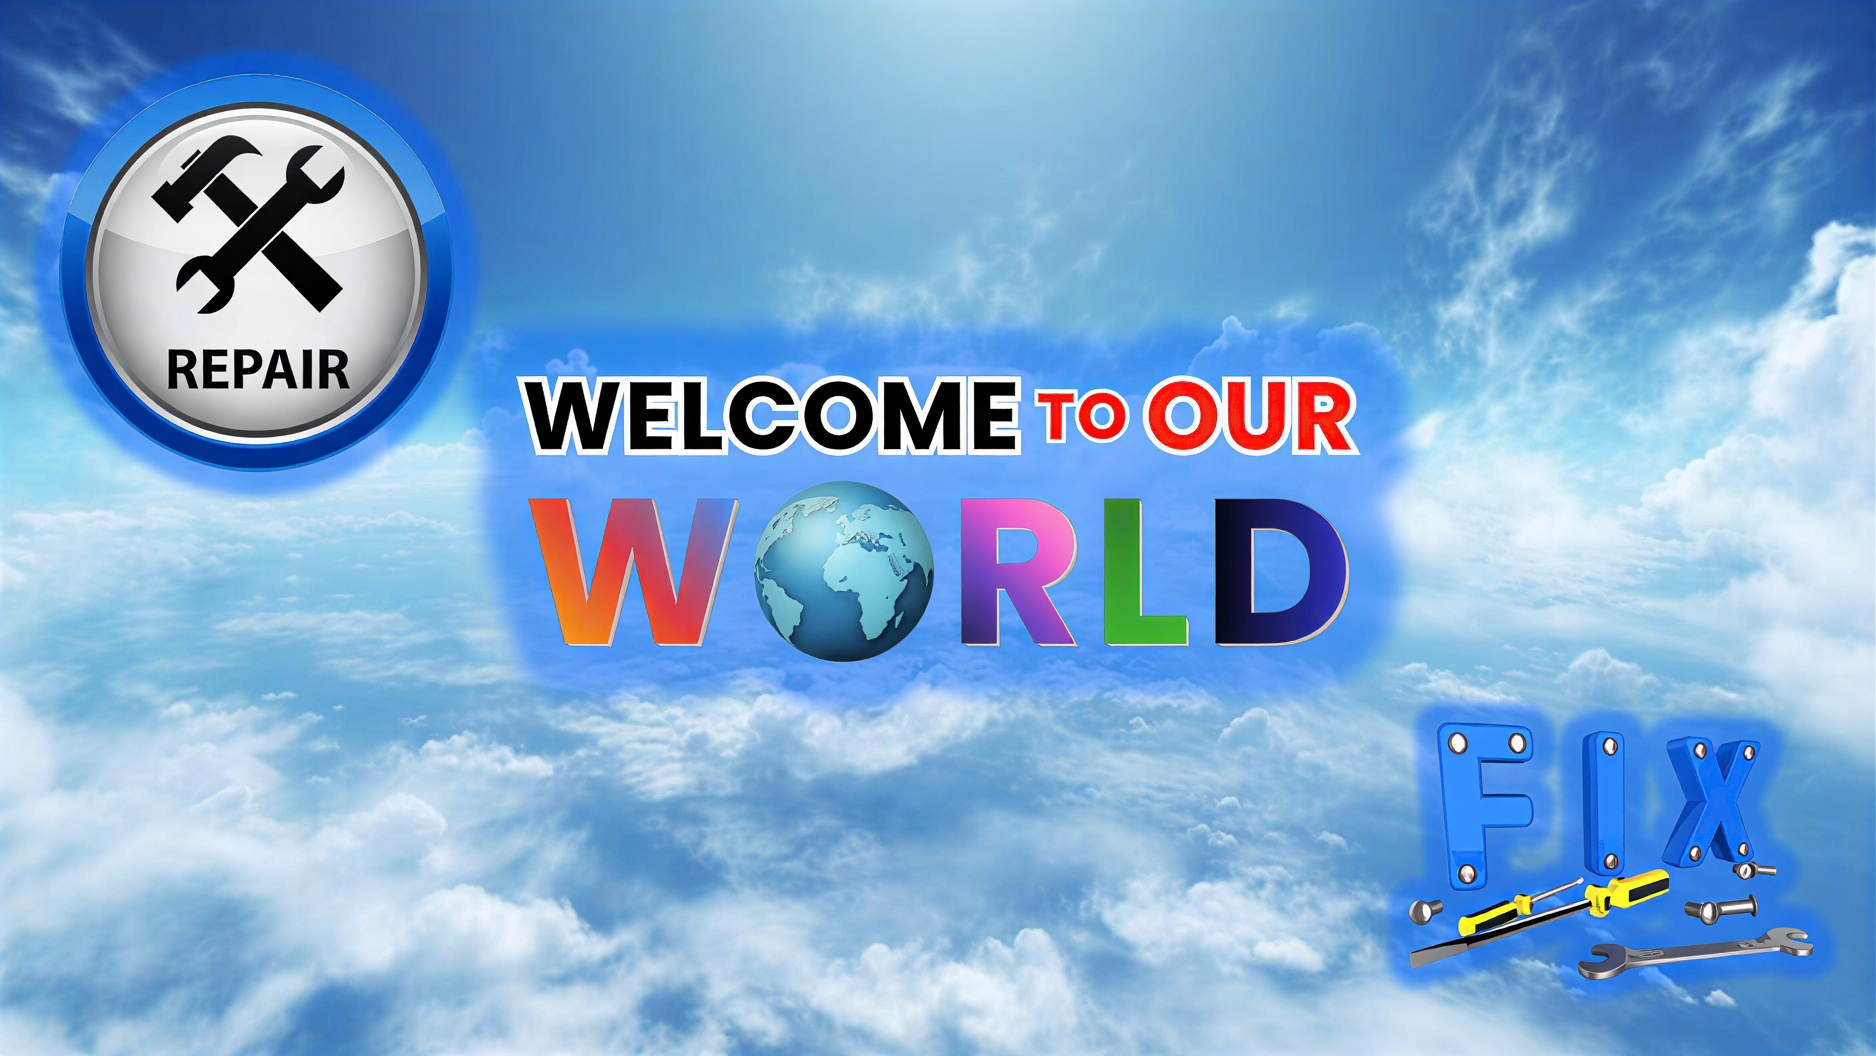
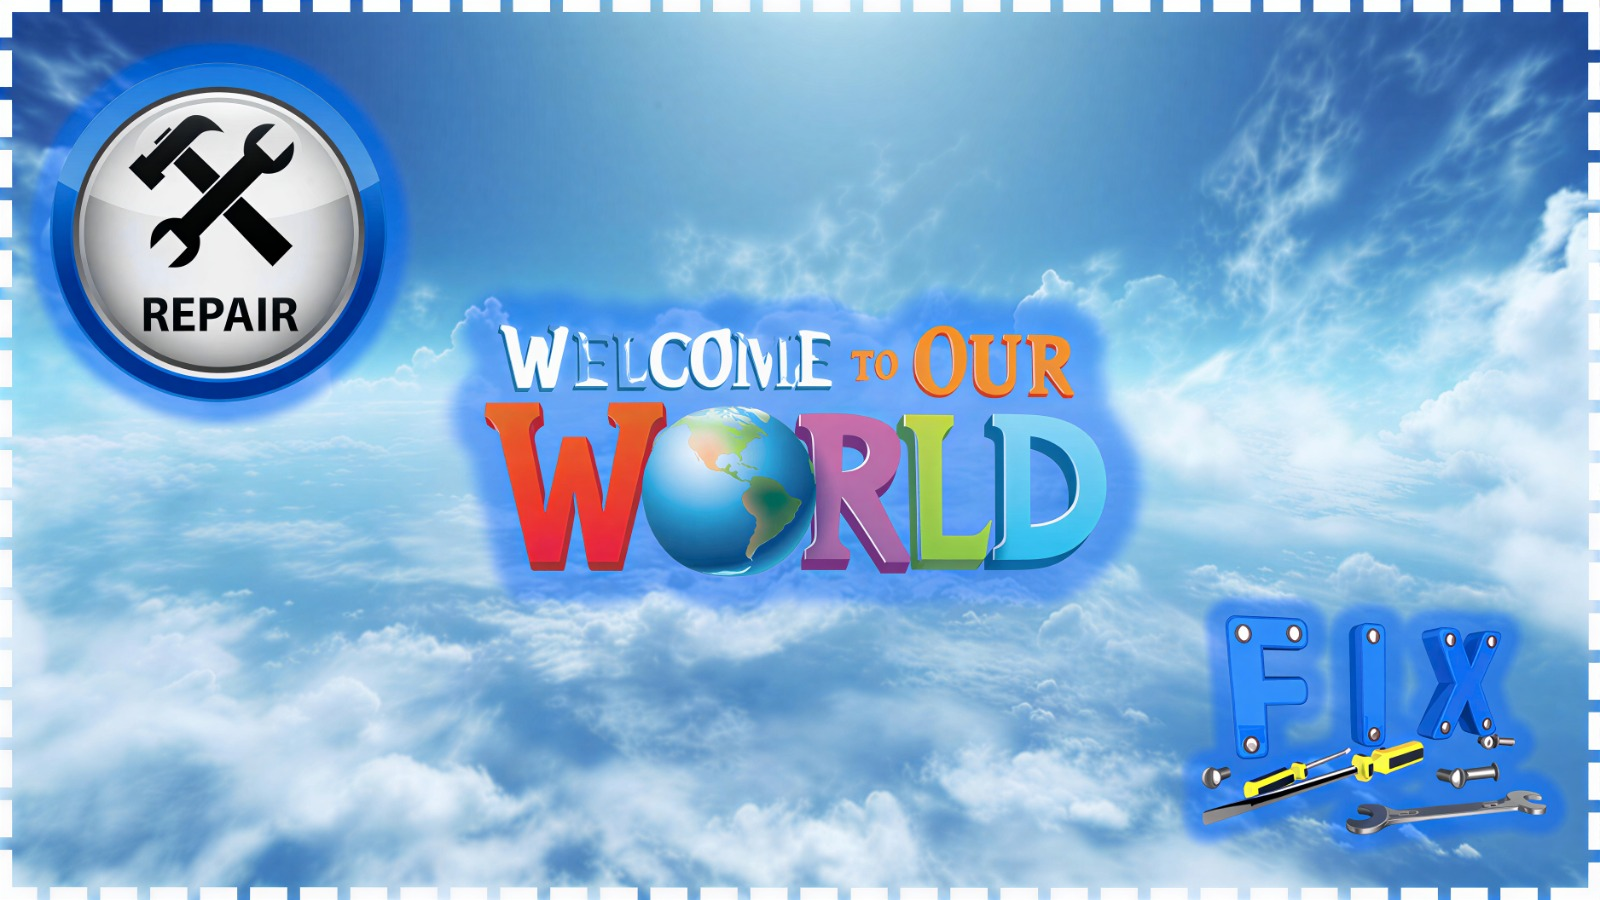
add

diff --git a/src/globalComponents/headerComponents/navbar/navRightLayout/index.jsx b/src/globalComponents/headerComponents/navbar/navRightLayout/index.jsx
@@ -12,7 +12,7 @@ const NavRightLayout = () => {
         </div>
         <div>|</div>
         <div className="font-poppins cursor-pointer hover:text-orange01 transition-colors duration-300">
-          WELCOME TO OUR WORLD
+          <Link to="/weclome-to-our-world">WELCOME TO OUR WORLD</Link>
         </div>
         <div>|</div>
         <div className="font-poppins cursor-pointer hover:text-orange01 transition-colors duration-300">
@@ -32,62 +32,9 @@ const NavRightLayout = () => {
         </div>
         <div>|</div>
         <div className="font-poppins cursor-pointer hover:text-orange01 transition-colors duration-300">
-          <Link to="/get_in_touch">GET IN TOUCH</Link>
+          <Link to="/get-in-touch">GET IN TOUCH</Link>
         </div>
       </div>
-      {/* <div className="flex items-center justify-between gap-x-1  lg:gap-x-2 xl:gap-x-2 font-poppins text-center">
-        <div className="cursor-pointer hover:text-orange01 transition-colors duration-300 text-[10px] md:text-[12px] lg:text-[15px] xl:text-[18px] 2xl:text-[20px]">
-          <Link to="/">START</Link>
-        </div>
-
-        <div className="text-[10px] md:text-[12px] lg:text-[15px] xl:text-[18px] 2xl:text-[20px]">
-          |
-        </div>
-
-        <div className="cursor-pointer hover:text-orange01 transition-colors duration-300 text-[10px] md:text-[12px] lg:text-[15px] xl:text-[18px] 2xl:text-[20px]">
-          WELCOME TO OUR WORLD
-        </div>
-
-        <div className="text-[10px] md:text-[12px] lg:text-[15px] xl:text-[18px] 2xl:text-[20px]">
-          |
-        </div>
-
-        <div className="cursor-pointer hover:text-orange01 transition-colors duration-300 text-[10px] md:text-[12px] lg:text-[15px] xl:text-[18px] 2xl:text-[20px]">
-          OUR EXPERTISE
-        </div>
-
-        <div className="text-[10px] md:text-[12px] lg:text-[15px] xl:text-[18px] 2xl:text-[20px]">
-          |
-        </div>
-
-        <div className="text-[10px] md:text-[12px] lg:text-[15px] xl:text-[18px] 2xl:text-[20px]">
-          <Category />
-        </div>
-
-        <div className="text-[10px] md:text-[12px] lg:text-[15px] xl:text-[18px] 2xl:text-[20px]">
-          |
-        </div>
-
-        <div className="cursor-pointer hover:text-orange01 transition-colors duration-300 text-[10px] md:text-[12px] lg:text-[15px] xl:text-[18px] 2xl:text-[20px]">
-          CONSULTING SERVICES
-        </div>
-
-        <div className="text-[10px] md:text-[12px] lg:text-[15px] xl:text-[18px] 2xl:text-[20px]">
-          |
-        </div>
-
-        <div className="cursor-pointer hover:text-orange01 transition-colors duration-300 text-[10px] md:text-[12px] lg:text-[15px] xl:text-[18px] 2xl:text-[20px]">
-          THE RESULTS
-        </div>
-
-        <div className="text-[10px] md:text-[12px] lg:text-[15px] xl:text-[18px] 2xl:text-[20px]">
-          |
-        </div>
-
-        <div className="cursor-pointer hover:text-orange01 transition-colors duration-300 text-[10px] md:text-[12px] lg:text-[15px] xl:text-[18px] 2xl:text-[20px]">
-          <Link to="/get_in_touch">GET IN TOUCH</Link>
-        </div>
-      </div> */}
     </>
   );
 };

diff --git a/src/pages/welcomeToOurWorld/theBlueprint/index.jsx b/src/pages/welcomeToOurWorld/theBlueprint/index.jsx
@@ -1,0 +1,49 @@
+import React from "react";
+import theBlueprint from "../../../assets/images/theBlueprint.jpeg";
+import Container from "../../../globalComponents/Container";
+
+const TheBluePrint = () => {
+  return (
+    <>
+      <Container>
+        <div className="mb-10">
+          <h2 className="text-6xl font-semibold font-poppins my-10 text-center">
+            THE BLUEPRINT
+          </h2>
+          <div className="md:grid grid-cols-2 gap-x-2">
+            <div className="h-[90%] w-[90%]">
+              <img src={theBlueprint} alt="" />
+            </div>
+            <div>
+              <div>
+                <h6 className="text-4xl font-semibold text-center font-poppins">
+                  OUR MISSION
+                </h6>
+                <p className="text-3xl text-center mt-10 font-poppins">
+                  To empower global industries by delivering <br />
+                  high-quality mechanical components, hardware, <br />
+                  and engineering consulting, ensuring operational <br />
+                  excellence and seamless digital transformation <br />
+                  through advanced CAD and BIM modelling.
+                </p>
+              </div>
+              <div>
+                <h6 className="text-4xl font-semibold text-center mt-40 font-poppins">
+                  OUR VISION
+                </h6>
+                <p className="text-3xl text-center mt-10 font-poppins">
+                  To be a world-leading enterprise that <br />
+                  seamlessly bridges physical industrial <br />
+                  supplies with virtual engineering <br />
+                  expertise, driving sustainable global advancement.
+                </p>
+              </div>
+            </div>
+          </div>
+        </div>
+      </Container>
+    </>
+  );
+};
+
+export default TheBluePrint;

diff --git a/src/pages/welcomeToOurWorld/welcomeText/index.jsx b/src/pages/welcomeToOurWorld/welcomeText/index.jsx
@@ -1,0 +1,46 @@
+import React from "react";
+import welcomeText from "../../../assets/images/banner01.jpg";
+import Container from "../../../globalComponents/Container";
+
+const WelcomeText = () => {
+  return (
+    <>
+      <Container>
+        <h2 className="text-[38px] font-semibold font-poppins my-10">
+          WELCOME TO OUR WORLD: INTEGRATED INDUSTRIAL & ENGINEERING SOLUTIONS
+        </h2>
+        <div className="grid grid-cols-2 ">
+          <div className="h-full w-full">
+            <img
+              src={welcomeText}
+              alt="WELCOME TO OUR WORLD: INTEGRATED INDUSTRIAL & ENGINEERING SOLUTIONS IMAGES"
+              className="h-full w-full object-fit"
+            />
+          </div>
+          <div className="text-[20px] text-center items-center font-poppins">
+            <p>
+              Welcome to a premier global destination where industrial <br />
+              commerce meets advanced digital engineering. We facilitate <br />
+              international industrial progress through a dual-capability model,
+              <br /> serving as a trusted global supplier of mechanical spare
+              parts <br /> and hardware while delivering elite consulting in CAD
+              and BIM modeling.
+            </p>
+            <p className="mt-10 font-poppins">
+              Our mission is to eliminate the friction between <br />
+              physical procurement and digital design. <br />
+              By providing enterprise-grade tools alongside <br />
+              high-fidelity virtual modeling, we equip global <br />
+              industries with the structural and mechanical <br />
+              integrity required to lead their respective markets. <br />
+              Explore our global network and experience <br />a partnership
+              engineered for excellence.
+            </p>
+          </div>
+        </div>
+      </Container>
+    </>
+  );
+};
+
+export default WelcomeText;

diff --git a/src/pages/welcomeToOurWorld/index.jsx b/src/pages/welcomeToOurWorld/index.jsx
@@ -1,0 +1,19 @@
+import React from "react";
+import Container from "../../globalComponents/Container";
+import WelcomeToOurWorldBanner from "./banner";
+import WelcomeText from "./welcomeText";
+import TheBluePrint from "./theBlueprint";
+
+const WelcomeToOurWorld = () => {
+  return (
+    <>
+      <div>
+        <WelcomeToOurWorldBanner />
+        <WelcomeText />
+        <TheBluePrint />
+      </div>
+    </>
+  );
+};
+
+export default WelcomeToOurWorld;

diff --git a/src/App.jsx b/src/App.jsx
@@ -6,6 +6,7 @@ import RootLayout from "./layout/rootLayout/RootLayout";
 import SignUp from "./pages/auth/registration";
 import Login from "./pages/auth/login";
 import Expertise from "./pages/expertise";
+import WelcomeToOurWorld from "./pages/welcomeToOurWorld";
 
 const App = () => {
   const router = createBrowserRouter([
@@ -18,7 +19,7 @@ const App = () => {
           element: <Home />,
         },
         {
-          path: "/get_in_touch",
+          path: "/get-in-touch",
           element: <GetInTouch />,
         },
         {
@@ -32,6 +33,10 @@ const App = () => {
         {
           path: "/expertise",
           element: <Expertise />,
+        },
+        {
+          path: "/weclome-to-our-world",
+          element: <WelcomeToOurWorld />,
         },
       ],
     },

diff --git a/src/pages/expertise/banner/index.jsx b/src/pages/expertise/banner/index.jsx
@@ -8,7 +8,7 @@ const ExpertiseBanner = () => {
   return (
     <>
       <div className="expertise">
-        <div className="relative md:h-210 md:w-full overflow-hidden bg-black">
+        <div className="relative md:h-230 md:w-full overflow-hidden bg-black">
           <img
             className="h-full w-full md:object-fill absolute inset-0"
             src={expertise_banner}
@@ -17,7 +17,7 @@ const ExpertiseBanner = () => {
           <div className="absolute inset-0 bg-black/50"></div>
 
           <div className="relative z-10 flex h-full flex-col  text-center text-white px-4">
-            <h1 className="text-xl font-bold md:text-6xl font-poppins pt-55  md:pt-175">
+            <h1 className="text-xl font-bold md:text-6xl font-poppins pt-55  md:pt-180">
               OUR EXPERTISE
             </h1>
             {/* <div className="flex items-center justify-center my-4 md:my-0 md:mt-10 text-sm md:text-xl font-poppins">